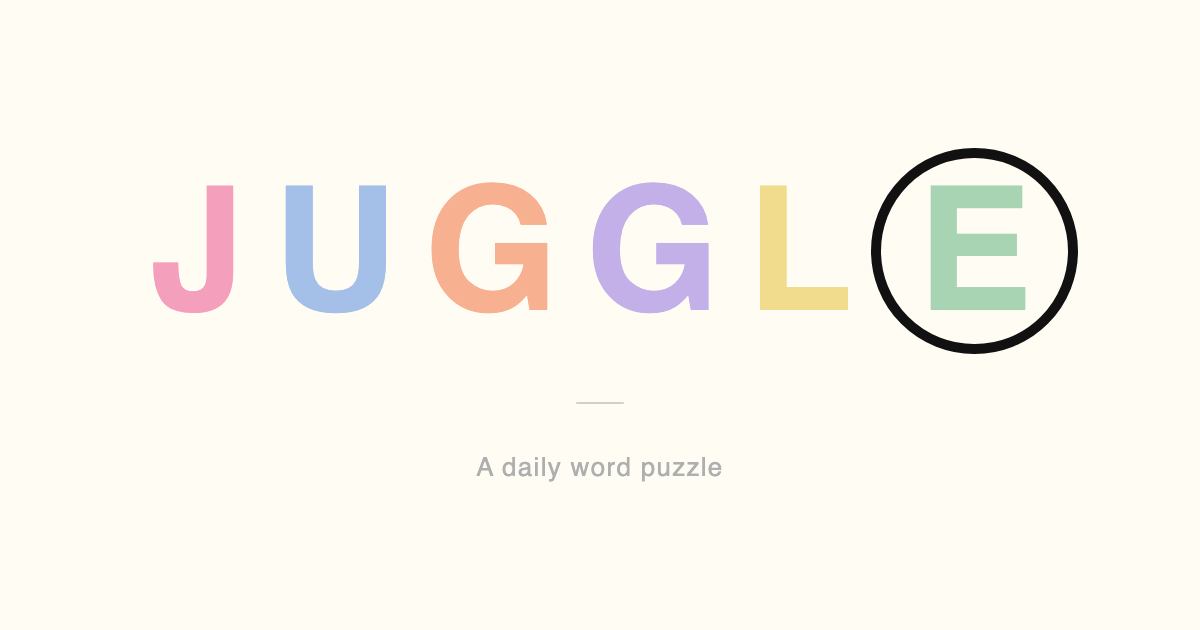
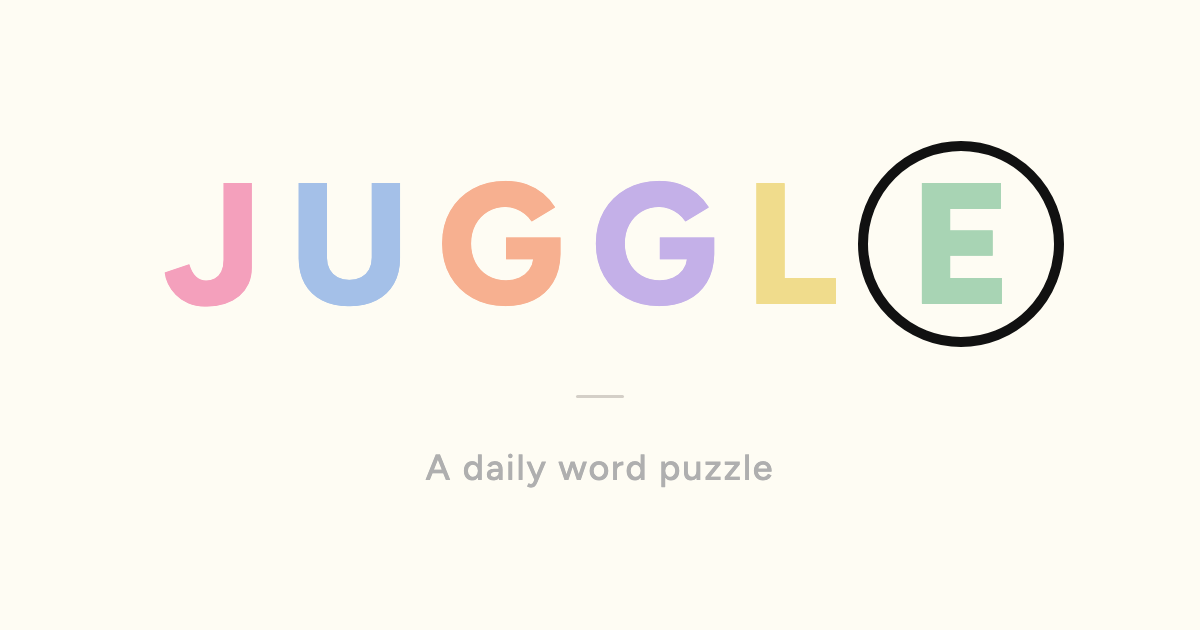
Increase font size of subtitle in imessage preview

Changed region(s): [[0.1233, 0.2111, 0.925, 0.573], [0.3392, 0.7238, 0.6475, 0.7841], [0.4933, 0.6032, 0.5242, 0.6333]]

diff --git a/og-image-source.html b/og-image-source.html
@@ -20,14 +20,13 @@ html, body {
 
 .logo {
   font-family: 'Figtree', sans-serif;
-  font-size: 148px;
+  font-size: 172px;
   font-weight: 800;
   letter-spacing: 0.16em;
   text-transform: uppercase;
   display: inline-flex;
   align-items: center;
   line-height: 1;
-  /* Cancel trailing letter-spacing so flex centering is accurate */
   margin-right: -0.16em;
 }
 
@@ -37,7 +36,7 @@ html, body {
   justify-content: center;
   width: 1.2em;
   height: 1.2em;
-  border: 9px solid #111;
+  border: 10px solid #111;
   border-radius: 50%;
   flex-shrink: 0;
   line-height: 1;
@@ -50,13 +49,13 @@ html, body {
   height: 2.5px;
   background: #D4CFC7;
   border-radius: 2px;
-  margin-top: 60px;
-  margin-bottom: 26px;
+  margin-top: 48px;
+  margin-bottom: 48px;
 }
 
 .tagline {
   font-family: 'Figtree', sans-serif;
-  font-size: 26px;
+  font-size: 36px;
   font-weight: 500;
   color: #AFAFAF;
   letter-spacing: 0.05em;
